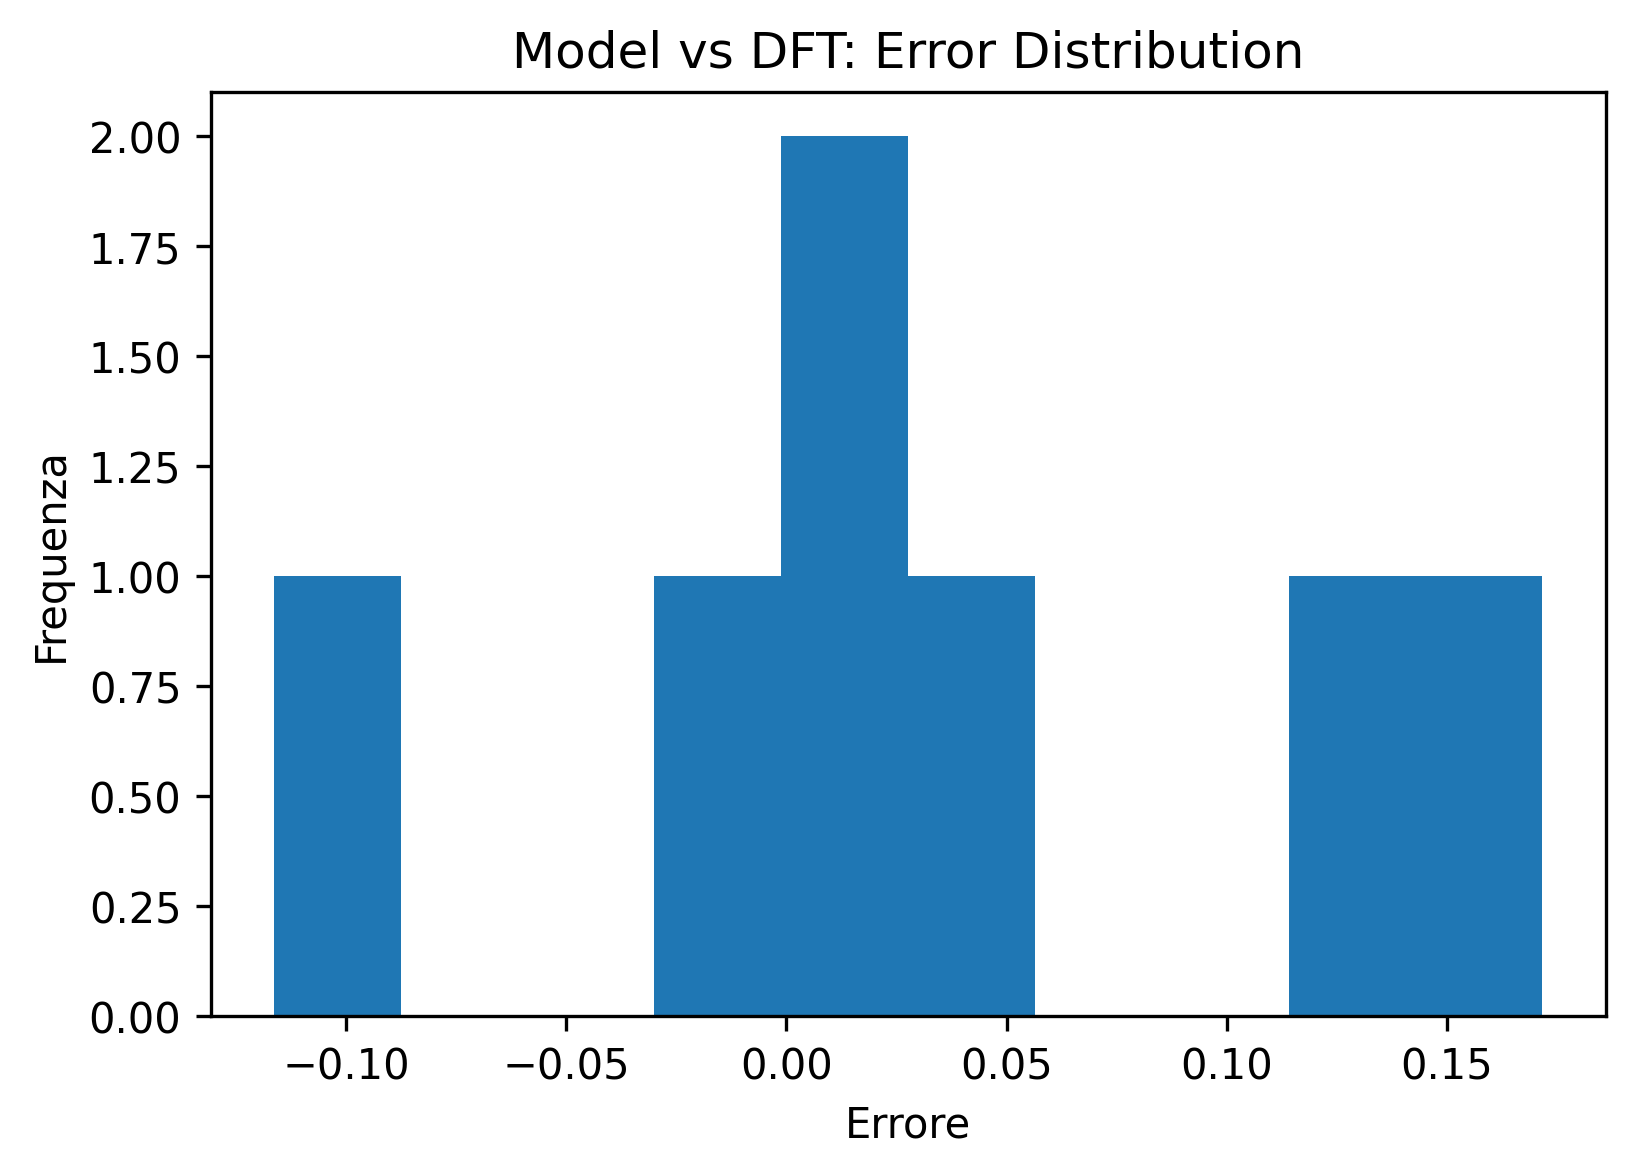
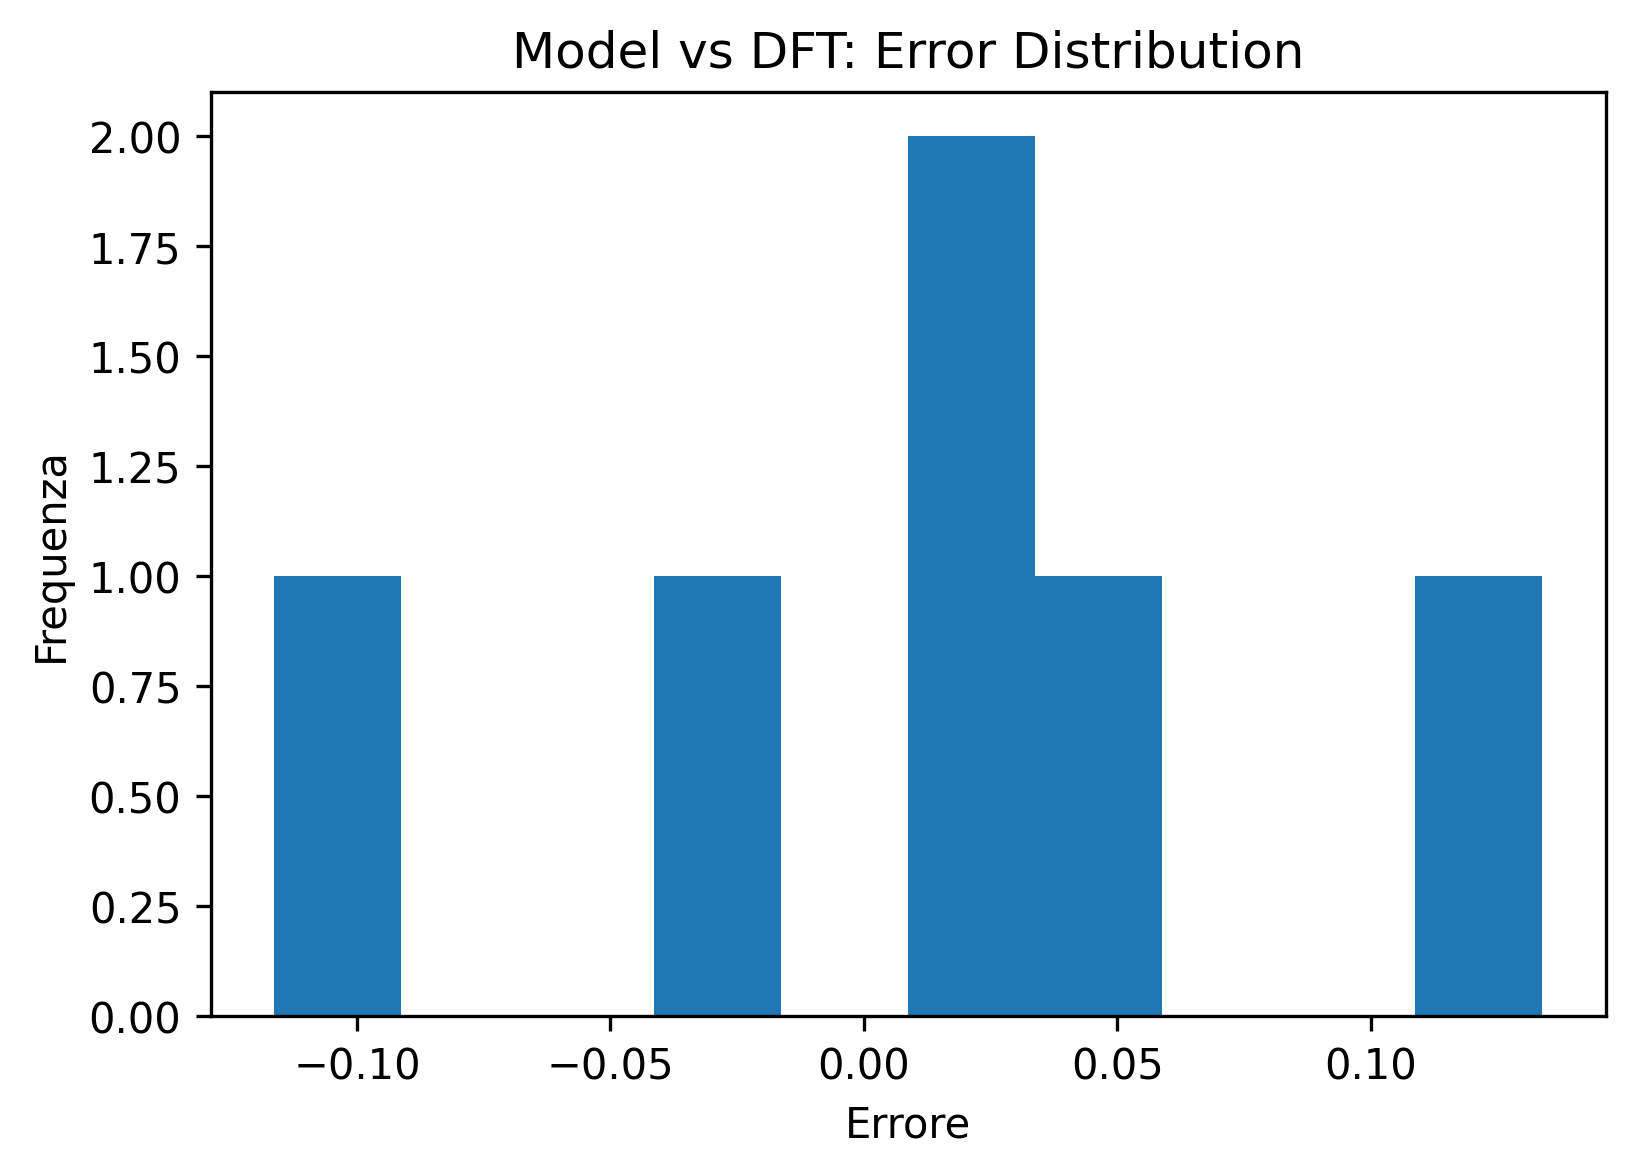
status

diff --git a/FP+NN/src/result_modello.py b/FP+NN/src/result_modello.py
@@ -16,7 +16,7 @@ from glob import glob
 
 df = pd.read_csv("../data/PUB_processed/compound_predictions.csv")
 df.info()
-# '''
+'''
 df_new = pd.concat([
     df[["molecule_id", "smiles", "gap"]].head(5),
     df[["molecule_id", "smiles", "gap"]].tail(5)
@@ -60,7 +60,7 @@ for xyz_file in xyz_files:
 
 t_end = time.time()
 print(f"Tempo totale: {t_end - t_start:.2f} s")
-#'''
+'''
 result = sp.run(
     ["bash", "../script/estrai_HOMO_LUMO_xtb.sh"],
     capture_output=True,
@@ -180,10 +180,12 @@ df_plot = df[["molecule_id", "gap"]].rename(
 ).copy()
 
 df_plot = df_plot.merge(
-    df_SCF[["idmol", "gap"]].rename(columns={"gap": "gap_real"}),
+    df_SCF[["idmol", "gap","status"]].rename(columns={"gap": "gap_real"}),
     on="idmol",
     how="inner"
 ).sort_values("idmol").reset_index(drop=True)
+
+df_plot = df_plot[df_plot["status"] == "complete"].copy()
 
 visualizer = ModelVisualizer()
 
